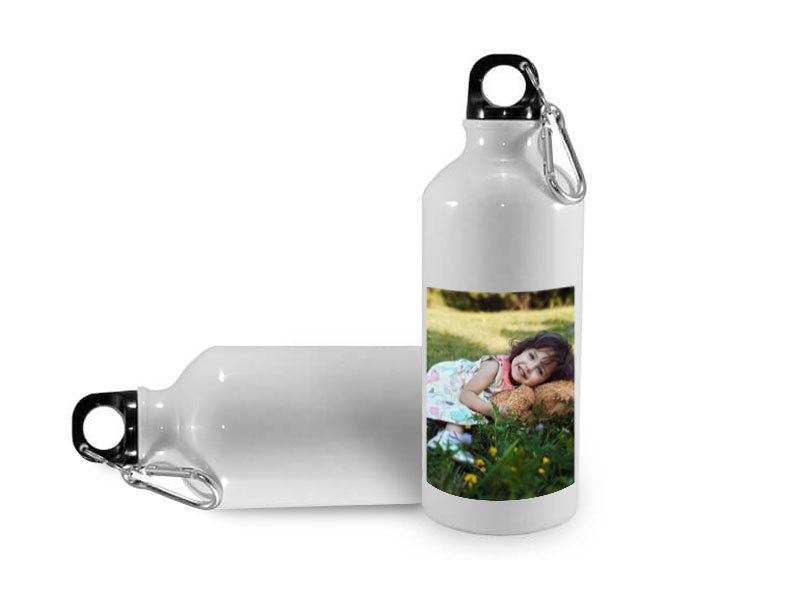
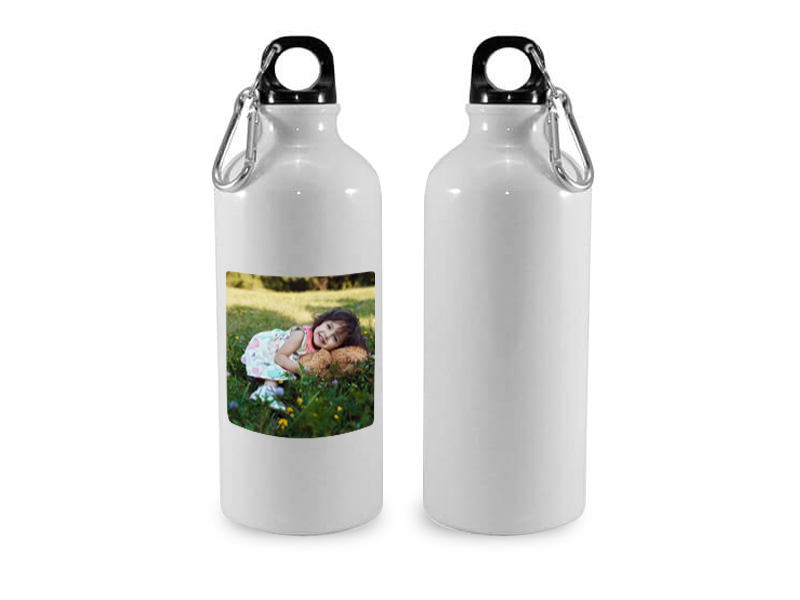
ff

Changed region(s): [[0.0625, 0.06, 0.75, 0.9]]

diff --git a/index.html b/index.html
@@ -76,24 +76,24 @@
         <p>300 ml</p>
         <p>Külseje matt fekete,</p>
         <p>Csak fotóval | Fotóval és grafikával</p>
-        <p class="small-text">magas hő hatására kifehéredik és láthatóvá válik a minta</p>
+        <p class="small-text">Magas hő hatására kifehéredik és láthatóvá válik a minta</p>
       </div>
 
       <div class="product">
         <img class="product__pic" src="assets/mug_BF.jpg" alt="Fényképes bögre szív">
         <h4>Páros bögre szett</h4>
         <p class="product__text">A szett tartalma: 2 db kerámia bögre</p>
-        <p>Egyik oldalán grafika ("best friends"), másikon fénykép</p>
         <p>Választható:</p>
         <p>Fiús | Lányos mintával,</p>
         <p>Egyforma | Eltérő fotókkal</p>
+        <p class="small-text">Egyik oldalán grafika ("best friends"), másikon fénykép</p>
       </div>
 
       <div class="product">
         <img class="product__pic" src="assets/bottle.jpg" alt="Kulacs">
         <h4>Kulacs</h4>
         <p class="product__text">Alumínium kulacs</p>
-        <p>Egy oldalon nyomott</p>
+        <p>Egy fotóval</p>
       </div>
 
       <div class="product">
@@ -152,7 +152,7 @@
       <div class="product">
         <img class="product__pic" src="assets/kitchen_stuffs.jpg" alt="konyhai szett">
         <h4>Konyhai edényfogó és kesztyű</h4>
-        <p class="product__text">Edényfogó | Kesztyű/p>
+        <p class="product__text">Edényfogó | Kesztyű</p>
         <p>Edényfogó fotóval | Edényfogó és kesztyű szett</p>
         <p class="small-text">(A kesztyű kérhető grafikával kiegészítve, akár saját szöveges tartalommal is
           vagy csak a fotóval szöveg nélkül!)</p>
